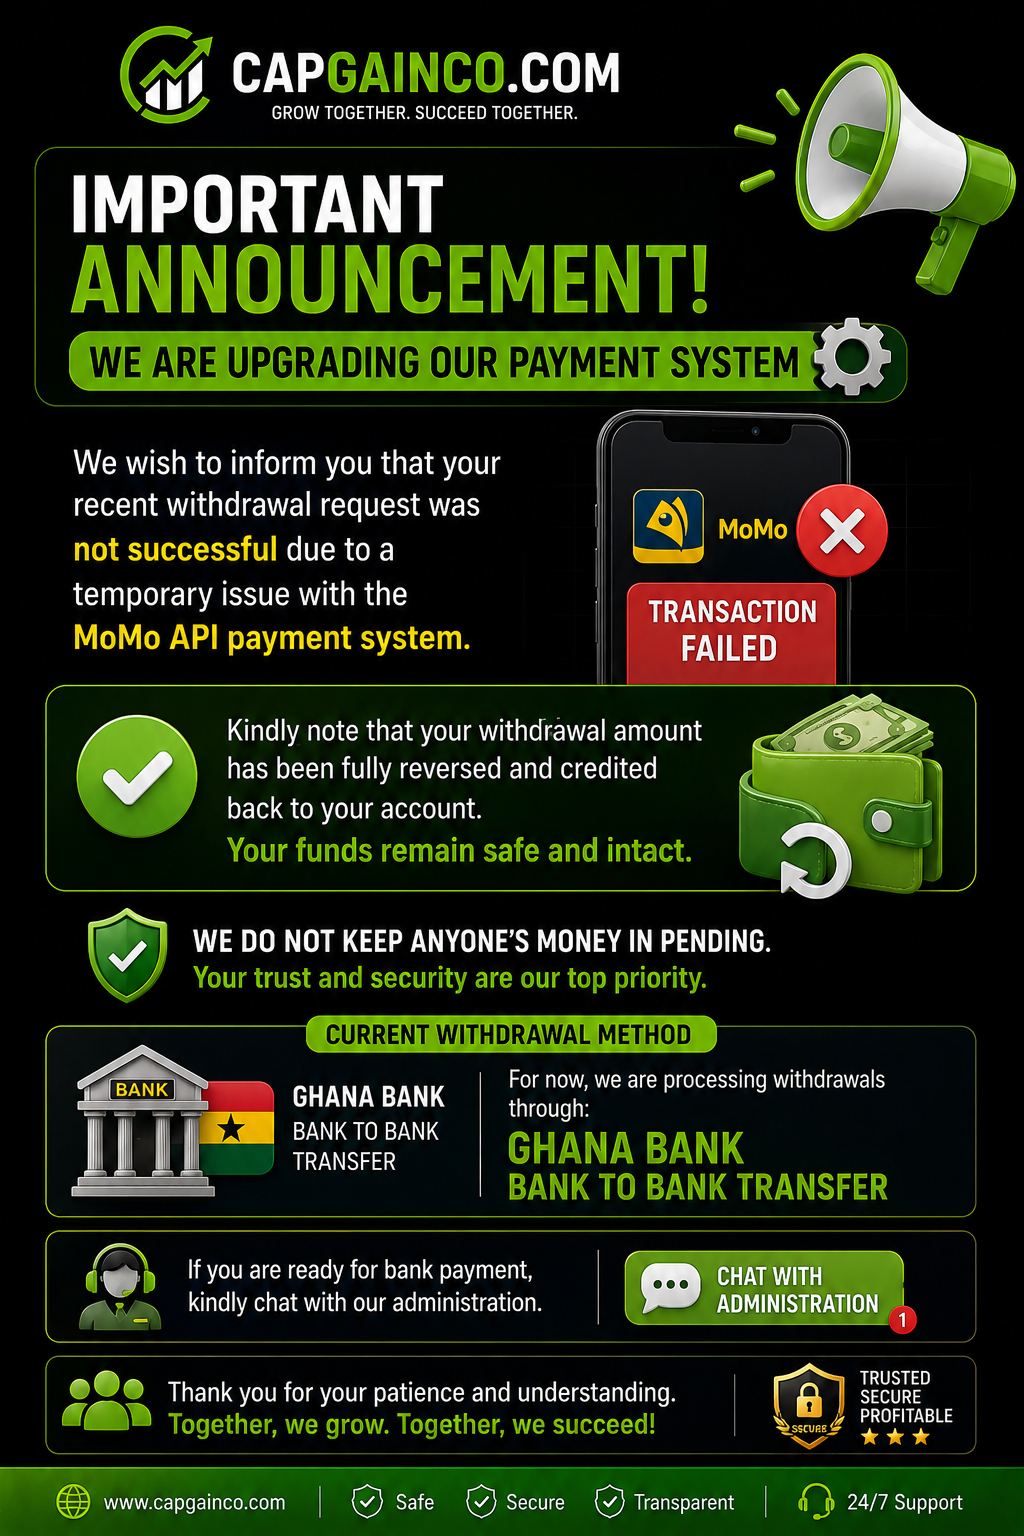
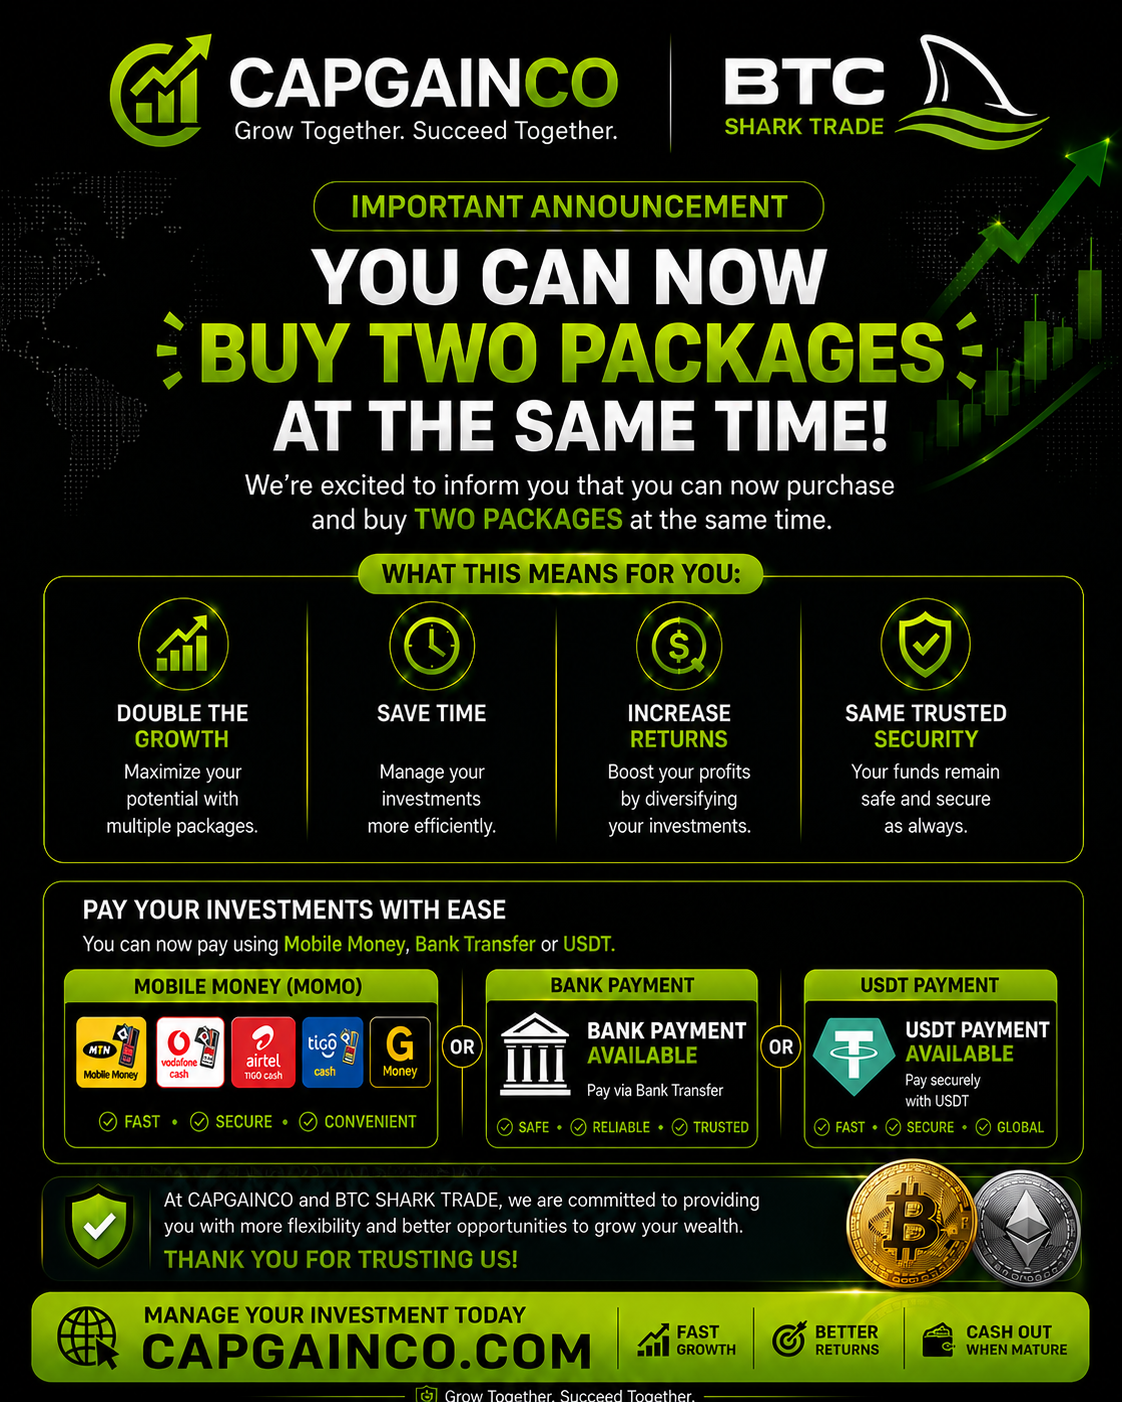
update

diff --git a/client/src/Components/WithdrawalUpgradePopup/WithdrawalUpgradePopup.js b/client/src/Components/WithdrawalUpgradePopup/WithdrawalUpgradePopup.js
@@ -41,53 +41,44 @@ class WithdrawalUpgradePopup extends Component {
 
           <div className="withdrawalContent">
 
-            <h2>📢 IMPORTANT ANNOUNCEMENT</h2>
+<h2>📢 IMPORTANT ANNOUNCEMENT</h2>
 
-            <p>
-              ⚙️ We are upgrading our payment system to serve you
-              better and more reliably.
-            </p>
+<p>
+  ⚙️ BTC SHARK TRADE & CapGainCo are committed to giving you more flexibility and faster investments!
+</p>
 
-            <p>
-              📌 We wish to inform you that if your recent withdrawal
-              was not successful, it may have been caused by a
-              temporary issue with the MoMo API payment system.
-            </p>
+<p>
+  📌 You can now buy **two packages at the same time** to maximize your growth and returns.
+</p>
 
-            <p>
-              ✅ Kindly note that your withdrawal amount has been
-              fully reversed and credited back to your account.
-            </p>
+<h3>💰 PAYMENT OPTIONS AVAILABLE</h3>
 
-            <p>
-              🔒 Your funds remain safe and intact.
-            </p>
+<p>
+  💵 <strong>Mobile Money (MoMo)</strong> — MTN, Vodafone, AirtelTigo, G-Money. Fast, secure, and convenient.
+</p>
 
-            <p>
-              🚫 We do not keep anyone’s money in pending.
-              Your trust and security are our top priority.
-            </p>
+<p>
+  🏦 <strong>Bank Transfer</strong> — Safe, reliable, and trusted for all Ghanaian banks.
+</p>
 
-            <h3>🏦 CURRENT WITHDRAWAL METHOD</h3>
+<p>
+  💱 <strong>USDT Payment</strong> — Pay using Tether (USDT) for crypto-savvy investors.  
+  Quick and borderless.
+</p>
 
-            <p>
-              💳 GHANA BANK — Bank to Bank Transfer
-            </p>
+<p>
+  🔒 Your funds remain secure at all times. We do not hold anyone’s money in pending status.
+</p>
 
-            <p>
-              💬 Anyone who is ready for bank payment can kindly
-              chat with the administration for assistance.
-            </p>
+<p>
+  💬 For assistance with any payment option, please contact our administration team.
+</p>
 
-            <p>
-              🙏 Thank you for your patience and continued trust.
-            </p>
-
-            <strong>
-              CAPGAINCO.COM <br />
-              Grow Together. Succeed Together.
-            </strong>
-
+<strong>
+  CAPGAINCO.COM <br />
+  BTC SHARK TRADE — Registered Company in Ghana 🇬🇭 <br />
+  Grow Together. Succeed Together.
+</strong>
           </div>
         </div>
       </div>

diff --git a/client/src/Components/Home/home.js b/client/src/Components/Home/home.js
@@ -171,7 +171,7 @@ class Home extends Component {
                     <WhatsAppChannelPopup/>
                     <MiningFeePopup/>
                     <ReferralBonusPopup/>
-                    {/* <WithdrawalUpgradePopup/> */}
+                    <WithdrawalUpgradePopup/>
                      <div className="home__box__2">
                          </div>
                         <div className="home__box__1">